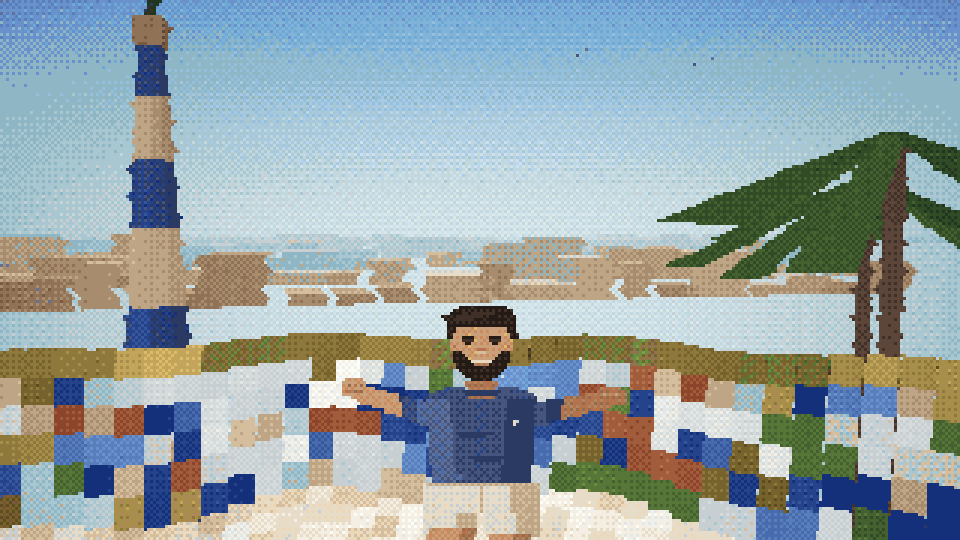
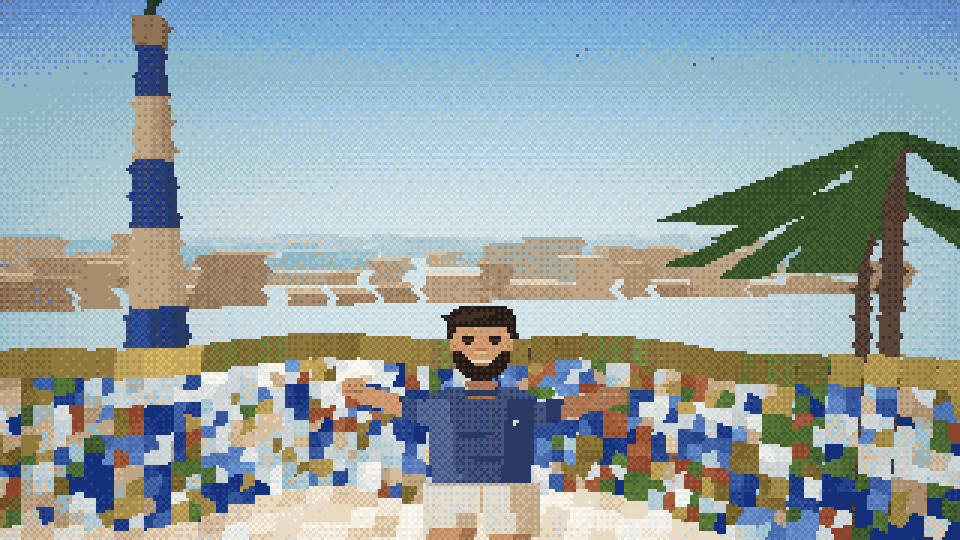
.

Changed region(s): [[0.0, 0.6519, 1.0, 1.0]]

diff --git a/art/park-guell.html b/art/park-guell.html
@@ -1,10 +1,11 @@
 ---
 layout: without-sidebar
 title: "Park Güell"
-permalink: /apps/park-guell/
+permalink: /art/park-guell/
 header:
   image: art/park-guell.png
 redirect_from:
+  - /apps/park-guell/
   - /apps/park-guell.html
 excerpt: "Gaudí's serpentine bench above Barcelona, rebuilt from a photograph pixel by pixel in the browser: trencadís laid as thousands of flat shards, haze over the city, looping every 48 seconds."
 ---
@@ -182,6 +183,10 @@ excerpt: "Gaudí's serpentine bench above Barcelona, rebuilt from a photograph p
 @media (hover: none) { .parkguell-keys { display: none; } }
 
 .parkguell-back {
+  display: flex;
+  justify-content: space-between;
+  gap: 12px;
+  flex-wrap: wrap;
   margin: .6rem 0 0;
   font-size: 12px;
   letter-spacing: .06em;
@@ -228,12 +233,7 @@ excerpt: "Gaudí's serpentine bench above Barcelona, rebuilt from a photograph p
     </button>
   </div>
 
-  <p class="parkguell-keys">Boşluk oynat/duraklat · ← → bir saniye · F tam ekran · M ses</p>
-
-  <p class="parkguell-source">The only one here built from a photograph rather than invented. The original, taken on the terrace:</p>
-  <img class="pg-photo" src="/images/art/park-guell-kaynak.jpg" alt="Photograph of the mosaic bench at Park Güell, Barcelona, with the city and the sea behind" loading="lazy" width="1600" height="1200">
-
-  <p class="parkguell-back"><a href="/art/">← Art</a></p>
+  <p class="parkguell-back"><a href="/art/">← Art</a><a class="parkguell-next" href="/art/gece-laboratuvari/">Sonraki: Gece Laboratuvarı →</a></p>
 
 </div>
 
@@ -506,6 +506,33 @@ excerpt: "Gaudí's serpentine bench above Barcelona, rebuilt from a photograph p
 
   var _q = new Float64Array(12);
 
+  /* One backrest cell broken into four irregular shards that meet at a jittered inner point. */
+  var _uv = new Float64Array(18);
+  function shardCell(m, a0, a1, r0, r1, y0, y1, pick, seed) {
+    var j = 0.18;
+    _uv[0] = 0; _uv[1] = 0; _uv[2] = 1; _uv[3] = 0; _uv[4] = 1; _uv[5] = 1; _uv[6] = 0; _uv[7] = 1;
+    _uv[8] = 0.5 + (hash(seed + 1) - 0.5) * j * 2; _uv[9] = 0;
+    _uv[10] = 1; _uv[11] = 0.5 + (hash(seed + 2) - 0.5) * j * 2;
+    _uv[12] = 0.5 + (hash(seed + 3) - 0.5) * j * 2; _uv[13] = 1;
+    _uv[14] = 0; _uv[15] = 0.5 + (hash(seed + 4) - 0.5) * j * 2;
+    _uv[16] = 0.3 + hash(seed + 5) * 0.4; _uv[17] = 0.3 + hash(seed + 6) * 0.4;
+    var PIECES = SHARD_PIECES;
+    for (var p = 0; p < 4; p++) {
+      var col = SHARDS[pick];
+      var hp = hash(seed * 3 + p * 11);
+      if (hp > 0.70) col = SHARDS[(hash(seed * 7 + p) * SHARDS.length) | 0];
+      else if (hp > 0.50) col = SHARDS[(pick + (hp > 0.6 ? 1 : SHARDS.length - 1)) % SHARDS.length];
+      var c = lit(col, 0.25, 0.55, 0.78, (hash(seed * 13 + p * 5) - 0.5) * 0.20);
+      for (var v = 0; v < 4; v++) {
+        var k = PIECES[p][v] * 2, u = _uv[k], w = _uv[k + 1];
+        ringPt(a0 + (a1 - a0) * u, r0 + (r1 - r0) * w, y0 + (y1 - y0) * w, _q, v * 3);
+      }
+      m.quad(_q[0], _q[1], _q[2], _q[3], _q[4], _q[5], _q[6], _q[7], _q[8], _q[9], _q[10], _q[11], c[0], c[1], c[2]);
+    }
+  }
+  /* Corner, edge-midpoint and centre indices into _uv for each shard. */
+  var SHARD_PIECES = [[0, 4, 8, 7], [4, 1, 5, 8], [8, 5, 2, 6], [7, 8, 6, 3]];
+
   (function buildBench() {
     var m = world;
     var A0 = 0.54 * Math.PI, A1 = 1.46 * Math.PI, SEG = 78;
@@ -534,11 +561,7 @@ excerpt: "Gaudí's serpentine bench above Barcelona, rebuilt from a photograph p
         var patch = ((i + row * 2) / 3) | 0;
         var pick = (hash(patch * 13 + row * 41 + 5) * SHARDS.length) | 0;
         if (hash(i * 17 + row * 3) > 0.52) pick = (hash(i * 29 + row * 61) * SHARDS.length) | 0;
-        var sc = SHARDS[pick];
-        var cb = lit(sc, 0.25, 0.55, 0.78, (hash(i * 7 + row * 11) - 0.5) * 0.16);
-        ringPt(a0, r0, y0, _q, 0); ringPt(a1, r0, y0, _q, 3);
-        ringPt(a1, r1, y1, _q, 6); ringPt(a0, r1, y1, _q, 9);
-        m.quad(_q[0], _q[1], _q[2], _q[3], _q[4], _q[5], _q[6], _q[7], _q[8], _q[9], _q[10], _q[11], cb[0], cb[1], cb[2]);
+        shardCell(m, a0, a1, r0, r1, y0, y1, pick, i * 5 + row * 97);
       }
 
       var gl = GLAZE[(hash(((i / 3) | 0) * 19 + 2) * GLAZE.length) | 0];

diff --git a/art/gece-laboratuvari.html b/art/gece-laboratuvari.html
@@ -1,10 +1,11 @@
 ---
 layout: without-sidebar
 title: "Gece Laboratuvarı"
-permalink: /apps/gece-laboratuvari/
+permalink: /art/gece-laboratuvari/
 header:
   image: art/gece-laboratuvari.png
 redirect_from:
+  - /apps/gece-laboratuvari/
   - /apps/gece-laboratuvari.html
 excerpt: "An empty engineering lab after midnight, drawn pixel by pixel in the browser: a live trace on the scope, rain on the window, and every light in the room coming from the instruments themselves. Loops every 48 seconds."
 ---
@@ -168,6 +169,10 @@ excerpt: "An empty engineering lab after midnight, drawn pixel by pixel in the b
 @media (hover: none) { .lab-keys { display: none; } }
 
 .lab-back {
+  display: flex;
+  justify-content: space-between;
+  gap: 12px;
+  flex-wrap: wrap;
   margin: .5rem 0 0;
   font-size: 12px;
   letter-spacing: .06em;
@@ -216,7 +221,7 @@ excerpt: "An empty engineering lab after midnight, drawn pixel by pixel in the b
 
   <p class="lab-keys">Boşluk oynat/duraklat · ← → bir saniye · F tam ekran · M ses</p>
 
-  <p class="lab-back"><a href="/art/">← Art</a></p>
+  <p class="lab-back"><a href="/art/">← Art</a><a class="lab-next" href="/art/sessiz-iskele/">Sonraki: Sessiz İskele →</a></p>
 
 </div>
 

diff --git a/art/firtinada-fener.html b/art/firtinada-fener.html
@@ -1,10 +1,11 @@
 ---
 layout: without-sidebar
 title: "Fırtınada Fener"
-permalink: /apps/firtinada-fener/
+permalink: /art/firtinada-fener/
 header:
   image: art/firtinada-fener.png
 redirect_from:
+  - /apps/firtinada-fener/
   - /apps/firtinada-fener.html
 excerpt: "A lighthouse on a rock through a Black Sea storm, drawn pixel by pixel in the browser: a rotating volumetric beam, breaking swell, spray and rain, looping every 48 seconds."
 ---
@@ -172,6 +173,10 @@ excerpt: "A lighthouse on a rock through a Black Sea storm, drawn pixel by pixel
 @media (hover: none) { .fener-keys { display: none; } }
 
 .fener-back {
+  display: flex;
+  justify-content: space-between;
+  gap: 12px;
+  flex-wrap: wrap;
   margin: 0;
   font-size: 12px;
   letter-spacing: .06em;
@@ -216,7 +221,7 @@ excerpt: "A lighthouse on a rock through a Black Sea storm, drawn pixel by pixel
 
   <p class="fener-keys">Boşluk oynat/duraklat · ← → bir saniye · F tam ekran · M ses</p>
 
-  <p class="fener-back"><a href="/art/">← Art</a></p>
+  <p class="fener-back"><a href="/art/">← Art</a><a class="fener-next" href="/art/karli-istasyon/">Sonraki: Karlı İstasyon →</a></p>
 
 </div>
 

diff --git a/art/karli-istasyon.html b/art/karli-istasyon.html
@@ -1,10 +1,11 @@
 ---
 layout: without-sidebar
 title: "Karlı İstasyon"
-permalink: /apps/karli-istasyon/
+permalink: /art/karli-istasyon/
 header:
   image: art/karli-istasyon.png
 redirect_from:
+  - /apps/karli-istasyon/
   - /apps/karli-istasyon.html
 excerpt: "An empty platform under falling snow, drawn pixel by pixel in the browser: sodium lamps pooling on the snow, a headlight that never arrives, looping every 48 seconds."
 ---
@@ -172,6 +173,10 @@ excerpt: "An empty platform under falling snow, drawn pixel by pixel in the brow
 @media (hover: none) { .istasyon-keys { display: none; } }
 
 .istasyon-back {
+  display: flex;
+  justify-content: space-between;
+  gap: 12px;
+  flex-wrap: wrap;
   margin: 0;
   font-size: 12px;
   letter-spacing: .06em;
@@ -216,7 +221,7 @@ excerpt: "An empty platform under falling snow, drawn pixel by pixel in the brow
 
   <p class="istasyon-keys">Boşluk oynat/duraklat · ← → bir saniye · F tam ekran · M ses</p>
 
-  <p class="istasyon-back"><a href="/art/">← Art</a></p>
+  <p class="istasyon-back"><a href="/art/">← Art</a><a class="istasyon-next" href="/art/akvaryum/">Sonraki: Akvaryum →</a></p>
 
 </div>
 

diff --git a/art/sessiz-iskele.html b/art/sessiz-iskele.html
@@ -1,10 +1,11 @@
 ---
 layout: without-sidebar
 title: "Sessiz İskele"
-permalink: /apps/sessiz-iskele/
+permalink: /art/sessiz-iskele/
 header:
   image: art/sessiz-iskele.png
 redirect_from:
+  - /apps/sessiz-iskele/
   - /apps/sessiz-iskele.html
 excerpt: "A foggy morning on a Black Sea pier, drawn pixel by pixel in the browser: a software rasteriser, a 41-colour palette and synthesised ambience, looping every 48 seconds."
 ---
@@ -173,6 +174,10 @@ excerpt: "A foggy morning on a Black Sea pier, drawn pixel by pixel in the brows
 @media (hover: none) { .iskele-keys { display: none; } }
 
 .iskele-back {
+  display: flex;
+  justify-content: space-between;
+  gap: 12px;
+  flex-wrap: wrap;
   margin: 0;
   font-size: 12px;
   letter-spacing: .06em;
@@ -217,7 +222,7 @@ excerpt: "A foggy morning on a Black Sea pier, drawn pixel by pixel in the brows
 
   <p class="iskele-keys">Boşluk oynat/duraklat · ← → bir saniye · F tam ekran · M ses</p>
 
-  <p class="iskele-back"><a href="/art/">← Art</a></p>
+  <p class="iskele-back"><a href="/art/">← Art</a><a class="iskele-next" href="/art/firtinada-fener/">Sonraki: Fırtınada Fener →</a></p>
 
 </div>
 

diff --git a/art/akvaryum.html b/art/akvaryum.html
@@ -1,10 +1,11 @@
 ---
 layout: without-sidebar
 title: "Akvaryum"
-permalink: /apps/akvaryum/
+permalink: /art/akvaryum/
 header:
   image: art/akvaryum.png
 redirect_from:
+  - /apps/akvaryum/
   - /apps/akvaryum.html
 excerpt: "Inside a lit tank at two in the morning, drawn pixel by pixel in the browser: caustics on the sand, Snell's window overhead, swaying plants and fish going nowhere, looping every 48 seconds."
 ---
@@ -168,6 +169,10 @@ excerpt: "Inside a lit tank at two in the morning, drawn pixel by pixel in the b
 @media (hover: none) { .akvaryum-keys { display: none; } }
 
 .akvaryum-back {
+  display: flex;
+  justify-content: space-between;
+  gap: 12px;
+  flex-wrap: wrap;
   margin: 0;
   font-size: 12px;
   letter-spacing: .06em;
@@ -216,7 +221,7 @@ excerpt: "Inside a lit tank at two in the morning, drawn pixel by pixel in the b
 
   <p class="akvaryum-keys">Boşluk oynat/duraklat · ← → bir saniye · F tam ekran · M ses</p>
 
-  <p class="akvaryum-back"><a href="/art/">← Art</a></p>
+  <p class="akvaryum-back"><a href="/art/">← Art</a><a class="akvaryum-next" href="/art/park-guell/">Sonraki: Park Güell →</a></p>
 
 </div>
 

diff --git a/_pages/art.md b/_pages/art.md
@@ -60,37 +60,37 @@ They have turned out to be about the same thing. Each one is a place where somet
 
 <div class="art-grid">
 
-  <a class="art-card" href="/apps/sessiz-iskele/">
+  <a class="art-card" href="/art/sessiz-iskele/">
     <img src="/images/art/sessiz-iskele.png" alt="A foggy Black Sea pier with a moored fishing boat, drawn in pixels" loading="lazy" width="960" height="540">
     <span class="art-title">Sessiz İskele</span>
     <span class="art-meta">A foggy morning on a Black Sea pier, walked end to end · 41 colours · 48 s loop</span>
   </a>
 
-  <a class="art-card" href="/apps/firtinada-fener/">
+  <a class="art-card" href="/art/firtinada-fener/">
     <img src="/images/art/firtinada-fener.png" alt="A lighthouse on a rock in a storm, its beam cutting through rain, drawn in pixels" loading="lazy" width="960" height="540">
     <span class="art-title">Fırtınada Fener</span>
     <span class="art-meta">A lighthouse through a storm: a turning beam, breaking swell, spray and rain · 43 colours · 48 s loop</span>
   </a>
 
-  <a class="art-card" href="/apps/karli-istasyon/">
+  <a class="art-card" href="/art/karli-istasyon/">
     <img src="/images/art/karli-istasyon.png" alt="An empty railway platform under falling snow, lit by sodium lamps, drawn in pixels" loading="lazy" width="960" height="540">
     <span class="art-title">Karlı İstasyon</span>
     <span class="art-meta">An empty platform under snow: sodium lamps pooling on the drifts, and a headlight that never arrives · 40 colours · 48 s loop</span>
   </a>
 
-  <a class="art-card" href="/apps/akvaryum/">
+  <a class="art-card" href="/art/akvaryum/">
     <img src="/images/art/akvaryum.png" alt="The inside of a lit aquarium: light pooling on the sand, plants, and fish, drawn in pixels" loading="lazy" width="960" height="540">
     <span class="art-title">Akvaryum</span>
     <span class="art-meta">Inside a lit tank at two in the morning: caustics on the sand, Snell's window overhead, fish going nowhere · 44 colours · 48 s loop</span>
   </a>
 
-  <a class="art-card" href="/apps/park-guell/">
+  <a class="art-card" href="/art/park-guell/">
     <img src="/images/art/park-guell.png" alt="Gaudí's mosaic bench at Park Güell above Barcelona, drawn in pixels" loading="lazy" width="960" height="540">
     <span class="art-title">Park Güell</span>
     <span class="art-meta">Gaudí's bench above Barcelona, rebuilt from a photograph: trencadís laid as thousands of flat shards · 50 colours · 48 s loop</span>
   </a>
 
-  <a class="art-card" href="/apps/gece-laboratuvari/">
+  <a class="art-card" href="/art/gece-laboratuvari/">
     <img src="/images/art/gece-laboratuvari.png" alt="An empty engineering lab at night, lit by an oscilloscope and a rainy window, drawn in pixels" loading="lazy" width="960" height="540">
     <span class="art-title">Gece Laboratuvarı</span>
     <span class="art-meta">An empty lab after midnight: a live trace on the scope, rain on the glass, every light in the room coming from the instruments · 45 colours · 48 s loop</span>
